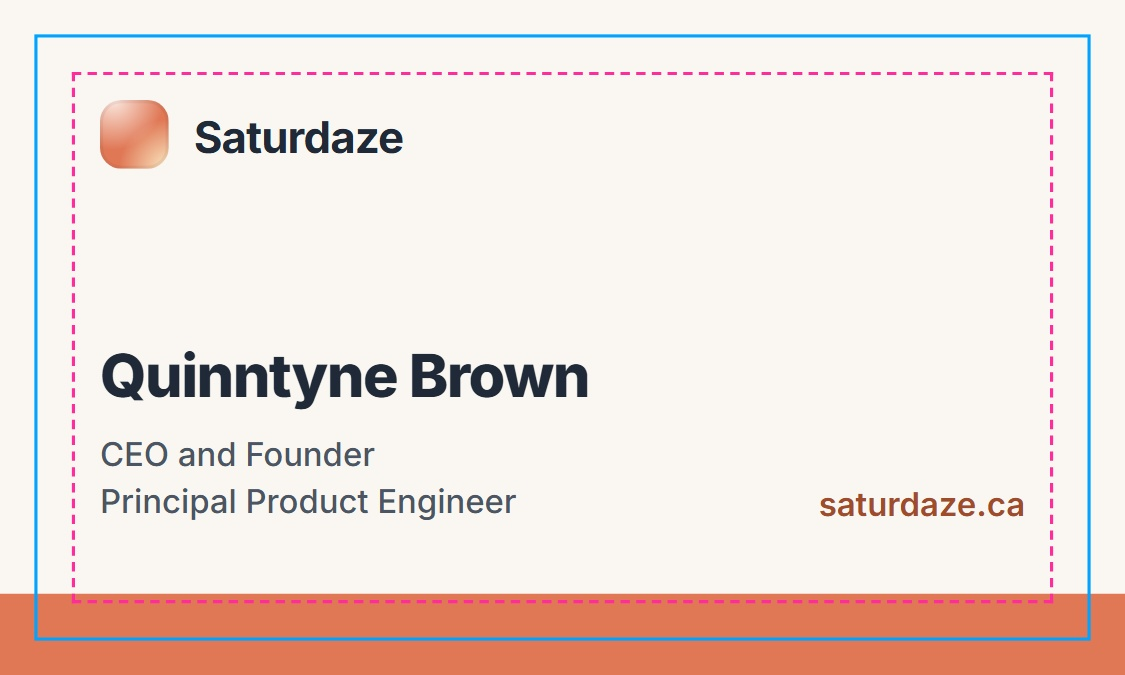
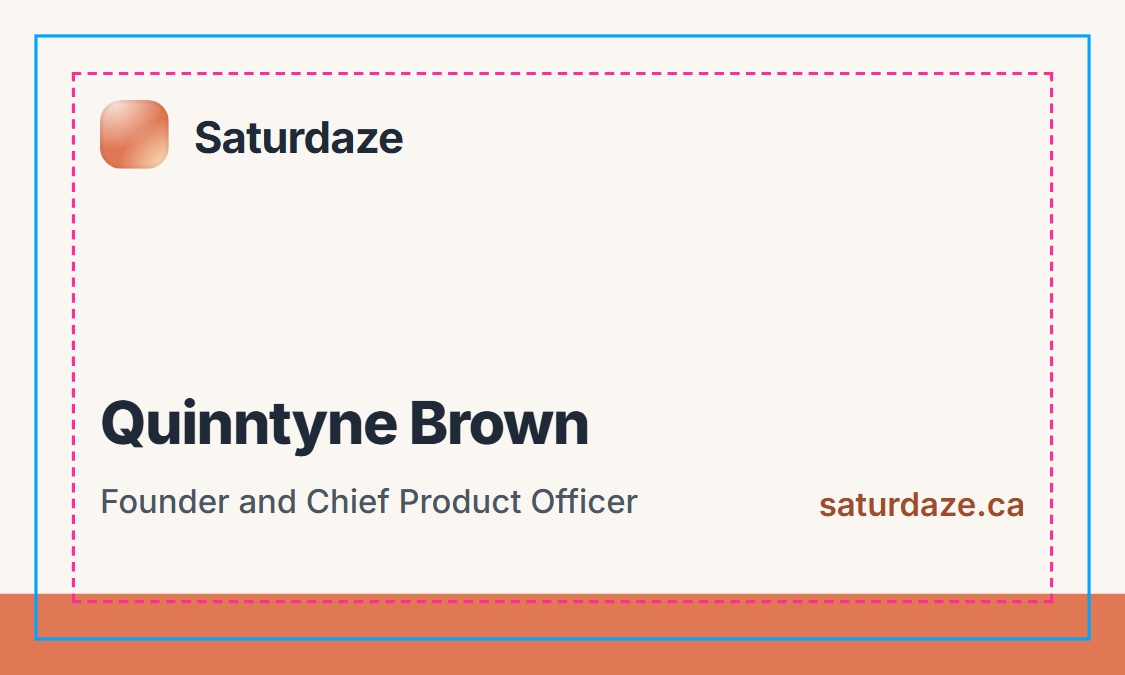
Retitle the business card to Founder and Chief Product Officer
The front of the card now reads "Founder and Chief Product Officer" in
place of the two-line "CEO and Founder / Principal Product Engineer".
The front renders are regenerated to match.

Changed region(s): [[0.0933, 0.4978, 0.56, 0.7778]]

diff --git a/docs/business-cards/business-card.html b/docs/business-cards/business-card.html
@@ -63,7 +63,7 @@
     <div class="front__brand"><span class="mark" aria-hidden="true"></span>Saturdaze</div>
     <div class="front__who">
       <p class="front__name">Quinntyne Brown</p>
-      <p class="front__role">CEO and Founder<br>Principal Product Engineer</p>
+      <p class="front__role">Founder and Chief Product Officer</p>
     </div>
     <div class="front__url">saturdaze.ca</div>
     <div class="front__band" aria-hidden="true"></div>
